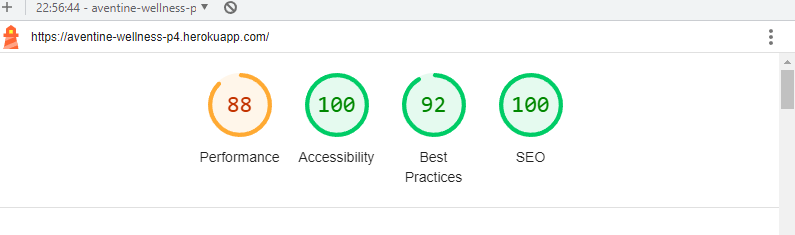
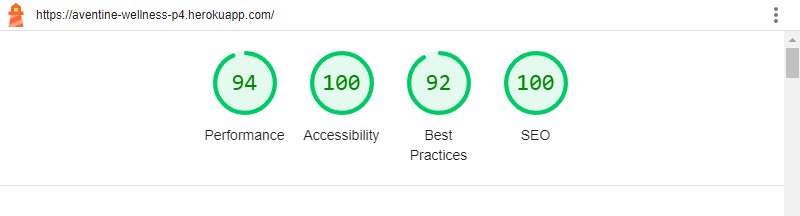
docs: Write manual testing report

diff --git a/templates/base.html b/templates/base.html
@@ -11,12 +11,6 @@
     <meta name="description" content="Aventine Gardens offering wellness sessions to treat mind, body and soul">
     <title>Aventine Gardens</title>
 
-    <!-- Google Font -->
-    <!-- <link rel="preconnect" href="https://fonts.googleapis.com">
-    <link rel="preconnect" href="https://fonts.gstatic.com" crossorigin>
-    <link href="https://fonts.googleapis.com/css2?family=Raleway:wght@400;500&display=swap" rel="stylesheet"> -->
-
-
     <!-- jQuery -->
     <script src="https://code.jquery.com/jquery-3.6.4.min.js"
         integrity="sha256-oP6HI9z1XaZNBrJURtCoUT5SUnxFr8s3BzRl+cbzUq8=" crossorigin="anonymous"></script>

diff --git a/static/css/style.css b/static/css/style.css
@@ -472,8 +472,9 @@ a:hover {
 }
 
 .contact-form button[type=submit]:hover {
-    background: #093631;
-    color: var(--white);
+    background: var(--white);
+    color: var(--color-default);
+    border: 1px solid #093631;
 }
 
 #contact-form {
@@ -597,9 +598,9 @@ iframe {
     text-decoration: underline;
 }
 
-#id_timeblock {
+/* #id_timeblock {
     width: 10em;
-}
+} */
 
 
 /* Account Forms */
@@ -770,6 +771,10 @@ iframe {
 @media (max-height: 700px), handheld and (orientation: landscape)  {
     .hero {
         min-height: 130vh;
+    }
+
+    .update-div {
+        height: 130vh;
     }
 }
 

diff --git a/aventine/settings.py b/aventine/settings.py
@@ -30,9 +30,9 @@ TEMPLATES_DIR = os.path.join(BASE_DIR, "templates")
 SECRET_KEY = os.environ.get("SECRET_KEY")
 
 # SECURITY WARNING: don't run with debug turned on in production!
-DEBUG = False
+DEBUG = True
 
-X_FRAME_OPTIONS = "SAMEORIGIN"
+# X_FRAME_OPTIONS = "SAMEORIGIN"
 
 
 ALLOWED_HOSTS = ["aventine-wellness-p4.herokuapp.com", "localhost"]
@@ -118,24 +118,24 @@ WSGI_APPLICATION = "aventine.wsgi.application"
 # Database
 # https://docs.djangoproject.com/en/3.2/ref/settings/#databases
 
-if "DATABASE_URL" in os.environ:
-    DATABASES = {
-        "default": dj_database_url.parse(os.environ.get("DATABASE_URL"))
-    }
-else:
-    DATABASES = {
-        "default": {
-            "ENGINE": "django.db.backends.sqlite3",
-            "NAME": os.path.join(BASE_DIR, "db.sqlite3"),
-        }
-    }
-
-# DATABASES = {
-#     "default": {
-#         "ENGINE": "django.db.backends.sqlite3",
-#         "NAME": os.path.join(BASE_DIR, "db.sqlite3"),
+# if "DATABASE_URL" in os.environ:
+#     DATABASES = {
+#         "default": dj_database_url.parse(os.environ.get("DATABASE_URL"))
 #     }
-# }
+# else:
+#     DATABASES = {
+#         "default": {
+#             "ENGINE": "django.db.backends.sqlite3",
+#             "NAME": os.path.join(BASE_DIR, "db.sqlite3"),
+#         }
+#     }
+
+DATABASES = {
+    "default": {
+        "ENGINE": "django.db.backends.sqlite3",
+        "NAME": os.path.join(BASE_DIR, "db.sqlite3"),
+    }
+}
 
 
 # Password validation

diff --git a/documentation/testing.md b/documentation/testing.md
@@ -1,54 +1,80 @@
+
 ## Manual Testing
 
-This table is all the manual testing done for each function, if it worked as expected or not.
+This table shows all the manual testing done for the website, and whether it worked as expected or not.
 
- ### Features
+### Features
 
 Feature Tested | Expected Result | Actual Result | Pass/Fail
 ---------------|-----------------|---------------|----------
-Press 'enter' on intro screen | The first story text should run | As expected | Pass
-Type a name into terminal when prompted | Receive message "It's nice to meet you, {name}." | As expected | Pass
-Pick a class from the options | Receive message "Welcome, {chosen_class}." | As expected | Pass
-Pick a subclass from the options | Receive message "A {subclasses[choice-1]}?" | As expected | Pass
-Player class, subclass and luck are uploaded to spreadsheet | Should be visible on spreadsheet | As expected | Pass
-Chooses story option 1 to search cars | Function to search cars runs | As expected | Pass
-Chooses story option 2 to enter building | Function to enter building runs | As expected | Pass
-Chooses story option 3 to exit game | Message "You run towards the cliff and jump! This is all too much to take.[END]" prints | As expected | Pass
-Searching the cars either finds a key or not | Receive message "You've found a key!" or "But you didn't find anything" | As expected | Pass
-Function runs automatically to enter the building | Building story text will print | As expected | Pass
-Pick yes to open the chest with key in inventory | Message "You've used your key" received | As expected | Pass
-Pick yes to open the chest without key in inventory | Message "You don't have a key and the lock won't budge." | As expected | Pass
-Pick no to open the chest | Message "The chest looks old and worn..." | As expected | Pass
-If chest is opened, random roll for a weapon | Message "You've found a {weapon}!, spreadsheet updated | As expected | Pass
-If chest is opened, random roll for a weapon | Message "There was nothing in the chest, only dust..." | As expected | Pass
-Building hallway function runs | Story text to choose a path runs | As expected | Pass
-Player chooses room 1 | Dreg attacks player for random health amount | As expected | Pass
-Player chooses room 1 | Player character attacks back with no weapon, text to show "You're a {player_class}. A {player_subclass}. You can use your {player_ability}." | As expected | Pass
-Player chooses room 1 | Player character attacks back with a weapon, text to show "You pull out your {stored_weapon}" | As expected | Pass
-Hallway choice function automatically runs | Story text for Hallway choices runs and shows player options | As expected | Pass
-Player chooses room 2 in Hallway | Empty room text prints, player is given the other 2 options for the Hallway | As expected | Pass
-Random Vandal attack occurs | Message "Out of nowhere, a Fallen Vandal attacks you!", player loses a random amount of health. | As expected | Pass
-Player chooses left from hallway options | SpaceShip function story prints | As expected | Pass
-Player chooses right from hallway options | LuckEscape function text prints | As expected | Pass
-Player has high luck number | Message "You manage to hide behind some nearby crates" prints | As expected | Pass
-Player has low luck number | Message "Oh no, a Fallen Servitor!" prints, game ends | As expected | Pass
-Player chooses back from hallway options | Game Ends | As expected | Pass
-Spaceship room function with high luck roll | Message "you aim at the Captain and hit him with the full force of your Super." prints | As expected | Pass
-Spaceship room function with low luck roll | Message "You wield the Light, you aim at the Captain But you miss" prints | As expected | Pass
-Player is asked if they want to play again | Message "Would you like to play again?" prints | As expected | Pass
-Player is asked if they want to be resurrected | Message "Please enter yes or no" prints | As expected | Pass
+NavBar responsiveness | NavBar becomes hamburger menu on page resize | As expected | Pass
+Images resize on mobile | Images resize on mobile | As expected | Pass
+Layout becomes linear on mobile | Layout becomes linear on mobile | As expected | Pass
+Buttons change colour on hover | Buttons change colour on hover | As expected | Pass
+Messages are displayed for user feedback | All messages shown as expected | As expected | Pass
+Active menu buttons change for each page | Active menu buttons change for each page | As expected | Pass
+Footer links all work when clicked | Footer links all work when clicked | As expected | Pass
+Button on home page for users not logged in | button displays "Register to book a session!" | As expected | Pass
+Button on home page for users not logged in | button redirects to Sign Up Page | As expected | Pass
+Button on home page for users logged in | button displays "Book a session now!" | As expected | Pass
+Button on home page for users logged in | button redirects to appointment.html | As expected | Pass
+Contact form renders on Contact button | contact.html renders | As expected | Pass
+Contact form saves to admin panel | admin panel shows message, name and email | As expected | Pass
+User gets feedback on contact form submission | Message "Your message was sent! We'll be in touch shortly." shows | As expected | Pass
+Registration page validates each input for empty or whitespaces | message "Please fill in this field is shown" | As expected | Pass
+Registration page validates email address | message "A user is already registered with this e-mail address." | As expected | Pass
+Registration page validates username | message "A user with that username already exists." | As expected | Pass
+Book and Profile links are hidden until a user is logged in | Only show when logged in | As expected | Pass
+Book link renders Appointment page | appointments.html is shown | As expected | Pass
+Appointments already booked have disabled buttons | buttons are disabled and show "BOOKED" | As expected | Pass
+User taken to confirmation page on booking | appointment_confirm_form.html is shown | As expected | Pass
+User redirected to appointment page if cancel is clicked on confirm | appointment.html renders on cancel | As expected | Pass
+User gets feedback message on booking confirmation | message "Your appointment was successfully booked!" displays | As expected | Pass
+Page redirects to profile on booking confirmation | user_profile.html renders on confirmation | As expected | Pass
+My Profile link renders Profile page | user_profile.html is shown | As expected | Pass
+User information is displayed on Profile page | Username, First Name, Last Name shown | As expected | Pass
+User booked appointments shown on Profile page | Appointments shown under "My Booked appointments" | As expected | Pass
+Appointments on profile shows message if nothing booked | message "You don't have any saved appointments!" shown | As expected | Pass
+Update Account button brings user to update form | user_update.html renders | As expected | Pass
+Return button on user_update page redirects back to profile | user_profile.html renders | As expected | Pass
+Users updated first name and last name are saved | Profile page updates with new user information | As expected | Pass
+Delete Profile button directs to confirmation page | user_delete.html renders | As expected | Pass
+Return button on user_delete page redirects back to profile | user_profile.html renders | As expected | Pass
+Confirm button on user_delete page redirects back to index.html | index.html renders | As expected | Pass
+Confirmation message on user_delete shows | message "Profile successfully deleted" shown | As expected | Pass
+All of a users appointments are deleted on profile deletion | appointments removed from database | As expected | Pass
+Edit Appointment redirects to update form | edit_appointment form renders | As expected | Pass
+Edit Appointment has date widget with restricted days | widget only allows booking up to 6 days ahead | As expected | Pass
+Edit Appointment date can be inputted manually | typing a date edits apppointment to that date | As expected | Pass
+Edit Appointment timeblock has a dropdown of choices | time choices are shown | As expected | Pass
+Delete Appointment redirects to delete confirmation | delete_appointment form renders | As expected | Pass
+Delete Appointment cancel button redirects to Profile | user_profile.html renders | As expected | Pass
+Delete Appointment delete button redirects to Profile | user_profile.html renders | As expected | Pass
+Appointment deleted from database on confirmation | appointment deleted | As expected | Pass
+User redirected to logout confirmation when Logout is clicked | account/logout.html renders | As expected | Pass
+User redirected to Profile Logout is cancelled | user_profile.html renderes | As expected | Pass
+User redirected to Index page when logged out | index.html renderes | As expected | Pass
+User shown log out message feedback | message "You have signed out." shown | As expected | Pass
+
+<br>
 
 ### Errors
 
 Error Tested | Expected Result | Actual Result | Pass/Fail
 -------------|-----------------|---------------|----------
-Press something before 'enter' on intro screen | Receive message "You typed '{start}'. When you're ready to begin. press ENTER." and should remain on Introduction screen | As expected | Pass
-Player enters something other than letters when asked for name | Receive message "Please enter letters only." | As expected | Pass
-Type less than 3 characters when asked for name | Receive message "Please enter a name at least 3 letters long." | As expected | Pass
-Player enters anything other than the 3 possible Classes | Receive message "Please type one of the classes listed." | As expected | Pass
-Player enters anything other than the numbers 1, 2 or 3 when option arises | Receive message "Please enter number 1, 2 or 3." | As expected | Pass
-Search function runs, awards a key to player inventory if True | Player inventory is updated or not, player receives message to inform them | As expected | Pass
-Player types anything other than Yes or No when question arises | Receive message "Please enter yes or no" | As expected | Pass
-Player receives a weapon | Receive message "You've found a {weapon}!" | As expected | Pass
-Players don't enter either Fight or Run during Captain fight | Receive message "Please enter Yes or No." | As expected | Pass
-Players don't enter either Yes or No when asked to be resurrected | Receive message "Please enter either fight or run." | As expected | Pass
+Contact form validates for whitespaces | message "Please fill in this field" shows | As expected | Pass
+Book Appointment validates double day booking | message "Cannot schedule more than one appointment on a single day!" shown | As expected | Pass
+Edit Appointment validates double day booking | message "Cannot schedule more than one appointment on a single day!" shown | As expected | Pass
+Edit Appointment validates double time booking | message "Sorry, this time is already booked!" shown | As expected | Pass
+User tried to render user_profile URL when not logged in | user redirected to log in page | As expected | Pass
+User tried to render appointment URL when not logged in | user redirected to log in page | As expected | Pass
+User tried to render edit_profile URL when not logged in | user redirected to 404 page | As expected | Pass
+User tried to render delete_profile URL when not logged in | user redirected to 404 page | As expected | Pass
+User tried to render edit_appointment URL when not logged in | user redirected to 404 page | As expected | Pass
+User tried to render delete_appointment URL when not logged in | user redirected to 404 page | As expected | Pass
+User tried to render user_profile URL for another user | user redirected to 403 page | As expected | Pass
+User tried to render appointment URL for another user | user redirected to 403 page | As expected | Pass
+User tried to render edit_profile URL for another user | user redirected to 403 page | As expected | Pass
+User tried to render delete_profile URL for another user | user redirected to 403 page | As expected | Pass
+User tried to render edit_appointment URL for another user | user redirected to 403 page | As expected | Pass
+User tried to render delete_appointment URL for another user | user redirected to 403 page | As expected | Pass

diff --git a/README.md b/README.md
@@ -456,11 +456,12 @@ This was marked was Won't Have by the end of the project. I originally thought t
 * [GitPod](https://www.gitpod.io/)
 * [GitHub](https://github.com/)
 * [Heroku](https://heroku.com)
-- [ElephantSQL](https://www.elephantsql.com/)
-- [Cloudinary](https://cloudinary.com/)
+* [ElephantSQL](https://www.elephantsql.com/)
+* [Cloudinary](https://cloudinary.com/)
 * [ReadMe Template](https://github.com/Code-Institute-Solutions/readme-template)
 * [Stack Overflow](https://stackoverflow.com/)
 * [Coolors](https://coolors.co/)
+* [AmIResponsive](https://ui.dev/amiresponsive)
 
 <br>
 
@@ -480,17 +481,16 @@ This was marked was Won't Have by the end of the project. I originally thought t
 
 
 ### Lighthouse Testing
- - When tested on desktop, the website scores 90 on performance but only 83 on Best Practices. This was because 1 image (the hero image) doesn't have the correct aspect ratio but no matter which width and height I gave, it didn't fix the issue. I assume this is because it's rendered with a border-radius. I could not fix this.
- - The other main reason for the lower score on Best Practices is because the Boostrap and jQuery files that are rendered log an issue to the console which says "Audit usage of navigator...". As these were from CDN files, I was unable to fix this error.
+ - When tested on desktop, the website scores 97 on performance but only 83 on Best Practices. The main reason for the lower score on Best Practices is because the Boostrap and jQuery files that are rendered log an issue to the console which says "Audit usage of navigator...". As these were from CDN files, I was unable to fix this error.
+ - The other reason was because 1 image (the hero image) doesn't have the correct aspect ratio but no matter which width and height I gave, it didn't fix the issue. I assume this is because it's rendered with a border-radius. I could not fix this.
  <br>
   
 ![Lighthouse Metrics](documentation/images/lighthouse-desktop.png)
 ![Lighthouse Metrics](documentation/images/lighthouse-practices-desktop.png)
 
- - On mobile, the performace is 88. This was originally lower because of a cumulative layout shift of 0.219. Recommendations for this were to add width and height to images and change the images to .webp format.
+ - On mobile, the performace is 94. This was originally lower because of a cumulative layout shift of 0.219. Recommendations for this were to add width and height to images and change the images to .webp format.
  - To change images from .jpg to .webp I used the website [WEBP Converter](https://cloudconvert.com/webp-converter).
- - Even after these changes, there is still a CLS of 0.179. As I have already given everything a max-width and height, this is the best I can achieve. I also removed the background image on the Hero section of the index page to try and help with the CLS.
- - I also received a red warning for First Contentful Paint. The warning was telling me to "Eliminate render-blocking resources". After googling this issue, I found this website [LogRocket.com](https://blog.logrocket.com/9-tricks-eliminate-render-blocking-resources/#load-custom-fonts-locally) and after reading, felt my best option to reduce this was to load the styles.css file in the header of the index.html page, instead of using the @import method in styles.css.
+ - I also removed the background image on the Hero section of the index page to try and help with the CLS.
  - The final issue and the largest still is "Eliminate render-blocking resources". This has to do with the Boostrap CSS file and the jQuery script. After researching, because they're from a CDN, I don't see any option to change them.
 
 ![Lighthouse Metrics](documentation/images/lighthouse-mobile.png)
@@ -498,11 +498,11 @@ This was marked was Won't Have by the end of the project. I originally thought t
 
 | Page | Device | Category | Result |
 |------|--------|----------|--------|
-|Index | Mobile | Performance | 88% |
+|Index | Mobile | Performance | 94% |
 |||Accessibility| 100% |
 |||Best Practice | 92% |
 |||SEO | 100% |
-|| Desktop | Performance | 90% |
+|| Desktop | Performance | 97% |
 ||| Accessibility | 100% |
 ||| Best Practice | 83% |
 ||| SEO | 100% |
@@ -513,6 +513,11 @@ This was marked was Won't Have by the end of the project. I originally thought t
 
 ![Coverage Report](documentation/images/coverage_report.png)
 ![Pytest Report](documentation/images/pytest.png) 
+
+<br>
+
+### Manual Testing
+- Manual testing has been done extensively and has been shown in separate fine, located [here.](documentation/testing.md)
 
 ### Other Testing
  - The website has been tested across various screen sizes, using the Chrome DevTools responsive device section, [Responsive Design Checker](https://responsivedesignchecker.com/) and by opening the website on Firefox, Chrome, 3 various sized Android phones (Huawei P20 Lite, OnePlus 9 Pro, Samsung Galaxy S20) and an Android tablet (Samsung Galaxy Tab 10). 
@@ -525,9 +530,9 @@ This was marked was Won't Have by the end of the project. I originally thought t
 
 <br>
 
-# Bugs Found and Fixed
+# Bugs
 
- Below is a description of fixed bugs.
+ Below is a description of bugs encountered and how I was able to fix them or not.
 
  ### get_name function - Length
 

diff --git a/documentation/tested-devices.md b/documentation/tested-devices.md
@@ -15,19 +15,18 @@
 ### Huawei P20 Lite Landscape
 <br>
 
-![Huawei Horizontal](huawei-ls-3.jpg)
-![Huawei Horizontal](huawei-ls-4.jpg)
-![Huawei Horizontal](huawei-ls-1.jpg)
-![Huawei Horizontal](huawei-ls-2.jpg)
+![Huawei Horizontal](images/huawei-ls-1.jpg)
+![Huawei Horizontal](images/huawei-ls-2.jpg)
+![Huawei Horizontal](images/huawei-ls-3.jpg)
 
 <br>
 
 ### OnePlus 9 Pro
 <br>
 
-![OnePlus 9 Pro 2](one-plus-2.jpg)
-![OnePlus 9 Pro 3](one-plus-3.jpg)
-![OnePlus 9 Pro 1](one-plus-1.jpg)
+![OnePlus 9 Pro 2](images/one-plus-1.jpg)
+![OnePlus 9 Pro 3](images/one-plus-2.jpg)
+![OnePlus 9 Pro 1](images/one-plus-3.jpg)
 
 <br>
 
